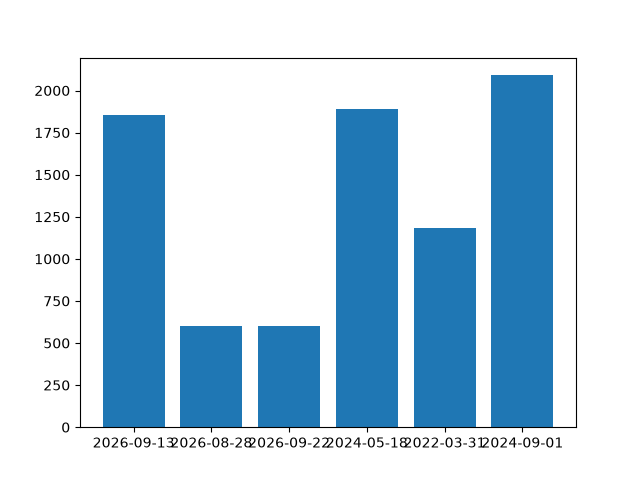
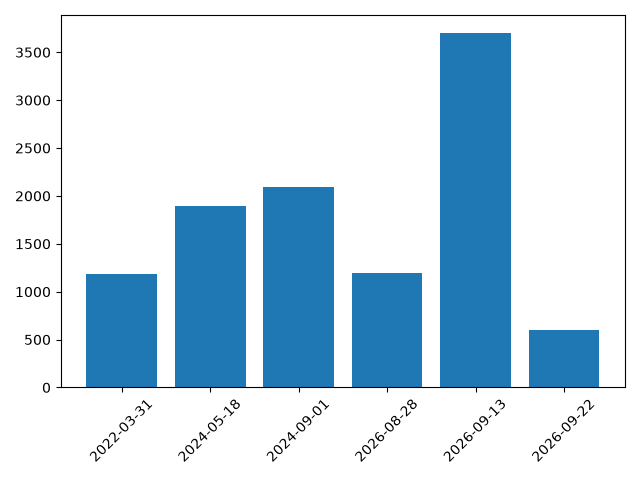
def_list.pyの修正
csvから読み込んだデータには同じ日付のデータがあるので、同じ日付の金額を合計してリストボックスとグラフに表示させる

diff --git a/hm/def_list.py b/hm/def_list.py
@@ -43,41 +43,70 @@ def save_file_drop(imgs_path):
 
 #csvファイルからグラフを作成する
 def create_graph(): #パスを引数とするか　関数内でcsvのパスを取得するか検討中
-    try:
-        csv_path = r"./output.csv"
-        input_csv= pd.read_csv(csv_path, header=None)
-    except pd.errors.EmptyDataError:
-        input_csv = pd.DataFrame()
+    # try:
+    #     csv_path = r"./output.csv"
+    #     input_csv= pd.read_csv(csv_path, header=None)
+    # except pd.errors.EmptyDataError:
+    #     input_csv = pd.DataFrame()
 
+    # fig, ax = plt.subplots()
+    # if input_csv.empty:
+    #     ax.text(0.5,0.5,"No data",ha="center", ca="center",transform=ax.transAxes,)
+    # else:
+    #     #month = input_csv[input_csv.columns[2]] #csv０行目を取得
+    #     month = input_csv.iloc[:,2]
+
+    #     #amount = input_csv[input_csv.columns[1]] #csv１行目を取得
+    #     amount = input_csv.iloc[:,1]
+
+    #     ax.bar(month, amount)
+
+    # #plt.bar(month, amount) 
+    # plt.savefig("./graph.png") #グラフ保存
+    # plt.close()
+    csv_list = csv_to_list()
     fig, ax = plt.subplots()
-    if input_csv.empty:
-        ax.text(0.5,0.5,"No data",ha="center", ca="center",transform=ax.transAxes,)
-    else:
-        #month = input_csv[input_csv.columns[2]] #csv０行目を取得
-        month = input_csv.iloc[:,2]
 
-        #amount = input_csv[input_csv.columns[1]] #csv１行目を取得
-        amount = input_csv.iloc[:,1]
+    if not csv_list:
+        ax.text(0.5, 0.5, "no data", ha="center", va="centetr",transform=ax.tranxAxes)
+    else :
+        dates = []
+        amounts = []
 
-        ax.bar(month, amount)
+        for row in csv_list:
+            dates.append((row[2]))
+            amounts.append((row[1]))
+        ax.bar(amounts,dates)
 
-    #plt.bar(month, amount) 
-    plt.savefig("./graph.png") #グラフ保存
+        #日にちが重なりにくいように傾ける
+        ax.tick_params(axis="x", labelrotation=45)
+
+
+    #日付けなどが画像からはみ出しにくいように調整
+    fig.tight_layout()
+    plt.savefig("./graph.png")
     plt.close()
 
 
-#csvファイルをリストにする
+#csvファイルをリストにする　リストボックスに表示するときに使う
 def csv_to_list():
     try:
         csv_path = r"./output.csv"
-        input_csv = pd.read_csv(csv_path, header=None)
+        input_csv = pd.read_csv(csv_path, header=None, names=["text", "amount", "date", "input_date"]) #naems ヘッダーのないcsvに名前を付けて読み込み
+
     except pd.errors.EmptyDataError:
         return []
-    
-    csv_list = []
-    for i in range(len(input_csv)):
-        puchase_date = input_csv.iloc[i,2]
-        total_amount = input_csv.iloc[i,1]
-        csv_list.append([i+1,puchase_date, total_amount])
 
-    return csv_list
+    #合計金額を数値型に変換する
+    input_csv["amount"] = pd.to_numeric(input_csv["amount"])
+    
+    #同じ日付の金額を合計する
+    #reset_index()：集計の基準になった日付を通常の列に戻す
+    new_amount = input_csv.groupby("date", )["amount"].sum().reset_index()
+
+    #新しいcsvを作成
+    csv_list = []
+    for i, row in new_amount.iterrows(): #iterrows()は行のインデックスとその行のデータを取り出す
+        csv_list.append([i+1, row["date"], row["amount"]])
+
+    return csv_list    

diff --git a/hm/main.py b/hm/main.py
@@ -128,7 +128,7 @@ class App(ctk.CTk):
         print(time)
         self.label.configure(text="画像がドロップから保存されました")
 
-    #リストボックスるをクリックした際のコンテキストメニュー表示
+    #リストボックスをクリックした際のコンテキストメニュー表示
     def list_click(self, event):
         index = self.listbox.curselection()
 

diff --git a/hm/memo.md b/hm/memo.md
@@ -10,3 +10,7 @@
 20261003
 画像を読み込んでcsvに記述する場合、UIにcsvの内容を反映させるために更新が必要
 画像読み込み　→　OCR&csvに書き込み　→　UI更新　繰り返し
+
+20261012
+- csvの重複しているレシートの日付(2行目)の合計金額を求める　同じ日付のレシートを金額を合計しているが、個々の値を修正したい場合もあると考えられるので、リストボックスで選択するとすべてのレシートの項目が表示されるようにしたい
+- 棒グラフにカーソルを合わせると合計金額がツールチップ(?)で表示されるようにしたいが、現在はグラフ(png)を表示しているので難しそう
